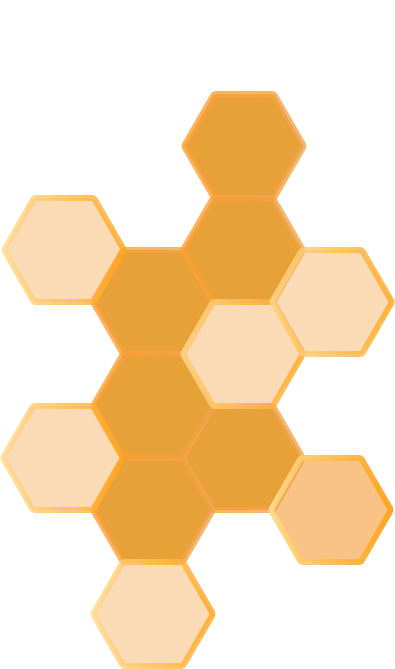
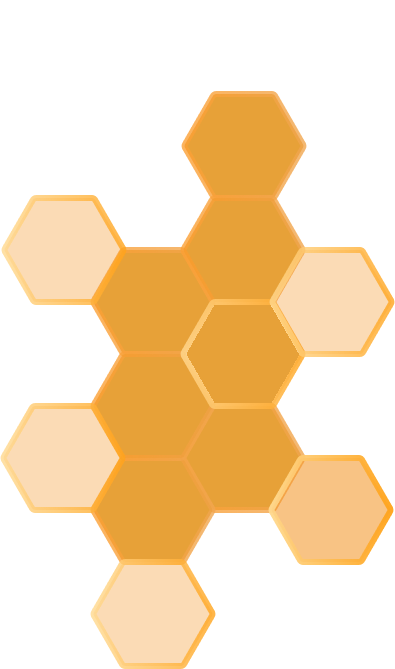
put the right links in the honeycomb and added an extra option for contact. Also updated the .gitignore so it also works with visual studio

Changed region(s): [[0.4557, 0.4484, 0.7595, 0.6278]]

diff --git a/src/layout/components/honeycomb.tsx b/src/layout/components/honeycomb.tsx
@@ -1,8 +1,6 @@
 import React, {Component, useRef, useState} from 'react';
 import { NavLink } from 'react-router-dom';
 import '../../resources/css/App.css'
-import axios from 'axios';
-import classNames from 'classnames';
 
 // Importing Images
 import Honeycombs from '../../resources/images/honeycombs.png';
@@ -16,23 +14,26 @@ const Honeycomb = (): JSX.Element => {
             <img src={Honeycombs}/>
             
             <div className="honeycombs-container">
-                <NavLink to={`/imkercafe`} className="router-link-honeycomb" id='router-link-1'>
-                    Imkercafe
+                <NavLink to={`/Agenda`} className="router-link-honeycomb" id='router-link-1'>
+                    Agenda
                 </NavLink>
-                <NavLink to={`/cursussen`} className="router-link-honeycomb" id='router-link-2'>
-                    Cursussen
+                <NavLink to={`/Nieuws`} className="router-link-honeycomb" id='router-link-2'>
+                    Nieuws
                 </NavLink>
-                <NavLink to={`/workshops`} className="router-link-honeycomb" id='router-link-3'>
-                    Workshops
+                <NavLink to={`/Bijenzwerm`} className="router-link-honeycomb" id='router-link-3'>
+                    Bijenzwerm
                 </NavLink>
-                <NavLink to={`/lezingen`} className="router-link-honeycomb" id='router-link-4'>
-                    Lezingen
+                <NavLink to={`/Vrienden`} className="router-link-honeycomb" id='router-link-4'>
+                    Vrienden
                 </NavLink>
-                <NavLink to={`/vergaderingen`} className="router-link-honeycomb" id='router-link-5'>
-                    Vergaderen
+                <NavLink to={`/Projecten`} className="router-link-honeycomb" id='router-link-5'>
+                    Projecten
                 </NavLink>
-                <NavLink to={`/LOI`} className="router-link-honeycomb" id='router-link-6'>
-                    LOI
+                <NavLink to={`/Projecten`} className="router-link-honeycomb" id='router-link-6'>
+                    Bijhouden
+                </NavLink>
+                <NavLink to={`/Contact`} className="router-link-honeycomb" id='router-link-7'>
+                    Contact
                 </NavLink>
             </div>
 

diff --git a/src/resources/css/App.css b/src/resources/css/App.css
@@ -450,17 +450,14 @@ body {
         color: #FBB916;
         animation: fadeIn 0.1s;
     }
-    
-    #router-link-1, #router-link-2, #router-link-3, #router-link-4, #router-link-5, #router-link-6 {
+
+    #router-link-1, #router-link-2, #router-link-3, #router-link-4, #router-link-5, #router-link-6, #router-link-7 {
         position: absolute;
-    
         height: 100px;
         width: 100px;
-    
         display: flex;
         align-items: center;
         justify-content: center;
-    
         cursor: pointer;
     }
     
@@ -492,24 +489,28 @@ body {
     #router-link-4 {
         position: absolute;
     
-        right: 190px;
-        bottom: 213px;
+        right: 102px;
+        bottom: 265px;
     }
-    
+
     #router-link-5 {
         position: absolute;
-    
-        right: 182px;
-        bottom: 110px;
+        right: 181px;
+        bottom: 213px;
     }
-    
+
     #router-link-6 {
         position: absolute;
-    
         right: 103px;
         bottom: 160px;
-    
         z-index: 90;
+    }
+    
+    #router-link-7 {
+        position: absolute;
+    
+        right: 191px;
+        bottom: 107px;
     }
 }
 

diff --git a/src/layout/components/header.tsx b/src/layout/components/header.tsx
@@ -1,16 +1,9 @@
 import React, {Component, useRef, useState} from 'react';
 import { NavLink } from 'react-router-dom';
 import '../../resources/css/App.css'
-import axios from 'axios';
-import classNames from 'classnames';
 
 // Importing Images
 import Logo from '../../resources/images/logo.png';
-
-import {    
-    Link
-} from "react-router-dom";
-import { RecordWithTtl } from "dns";
 
 
 
